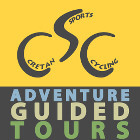
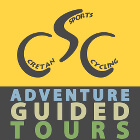
Updates CSC sponsor image and hovertext. Upreses CSC image in contact page.

diff --git a/httpdocs/wp-content/themes/tourofcrete/footer.php b/httpdocs/wp-content/themes/tourofcrete/footer.php
@@ -28,8 +28,8 @@ echo '</div>'; //* end .site-container or #wrap
         	<h2><?php _e('SPONSORED BY','tourofcrete');?></h2>
         </div>
     	<div class="content" align="center">
-            <a href="http://www.cretansportscycling.gr/" target="_blank" alt="Adventure Guided Tours">
-               <img src="<?=get_bloginfo('stylesheet_directory'); ?>/images/a-g-t.jpg" title="Adventure Guided Tours" border="0" />
+            <a href="http://www.cretansportscycling.gr/" target="_blank" alt="Cretan Sports Cycling">
+               <img src="<?=get_bloginfo('stylesheet_directory'); ?>/images/csc.jpg" title="Adventure Guided Tours" border="0" />
             </a>
             <a href="http://fotomaris.gr/" target="_blank" alt="Foto Maris">
                <img src="<?=get_bloginfo('stylesheet_directory'); ?>/images/fotomaris.jpg" title="Foto Maris" border="0" />
